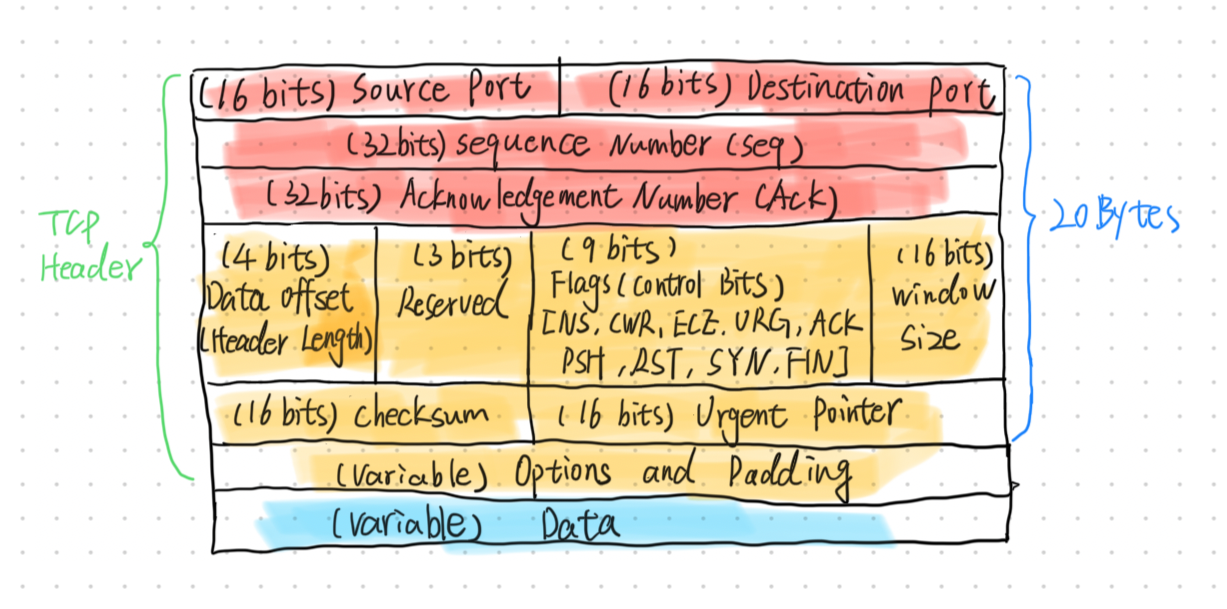
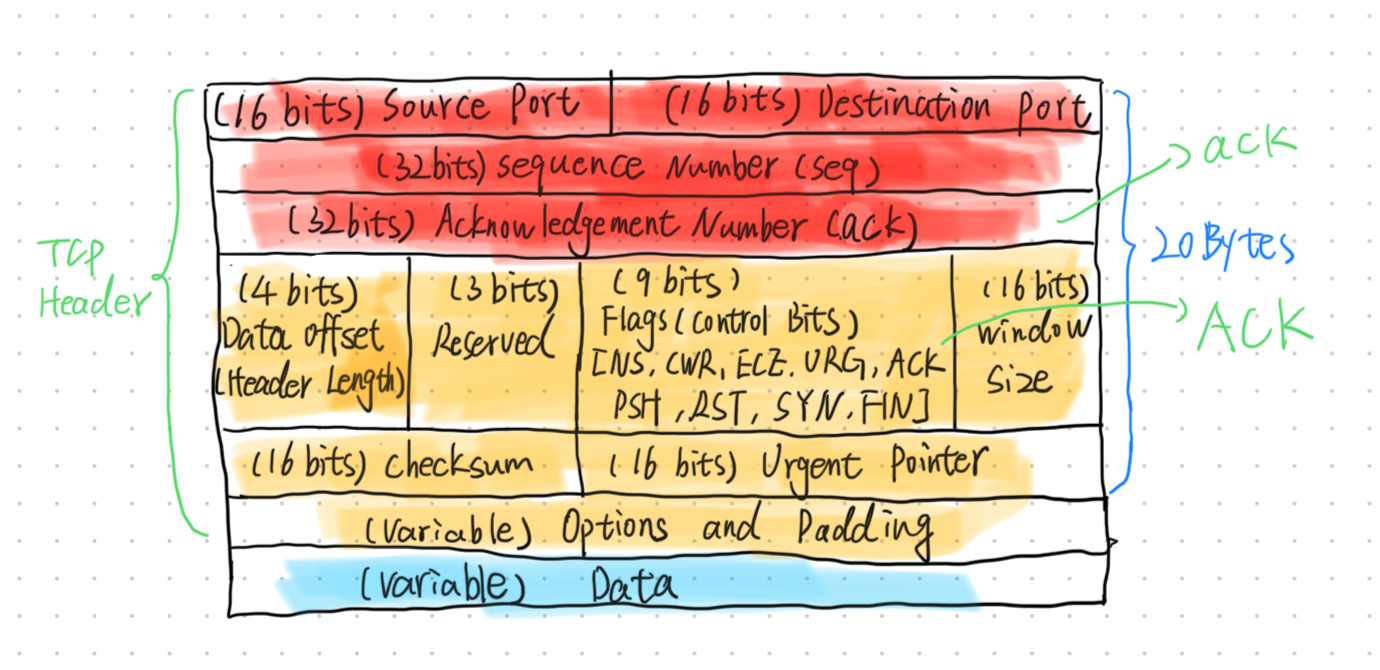
05-12-2025

diff --git a/_posts/Architecture/Computer Networking/2025-05-12-TCP-Three-Way-Handshake-And-TCB.md b/_posts/Architecture/Computer Networking/2025-05-12-TCP-Three-Way-Handshake-And-TCB.md
@@ -1,0 +1,239 @@
+---
+title: TCP Three-Way Handshake and TCB
+date: 2025-05-12
+categories: [Architecture, Computer Networking]
+tags: [Computer Networking, TCP, Networking, Transport Layer, Three-Way Handshake]
+author: kai
+---
+
+# 🔍 TCP Three-Way Handshake
+TCP (Transmission Control Protocol) is a **connection-oriented** protocol designed to ensure **reliable** and **ordered** data transmission. One of its most critical mechanisms is the **Three-Way Handshake**, used to establish a connection between two endpoints before data transfer begins.
+
+![TCP Structure](/assets/img/posts/Architecture/ComputerNetworking/TCPStructure.png)
+
+
+## ⚙ Three-Way Handshake
+The **TCP Three-Way Handshake** is a process involving three steps (SYN → SYN-ACK → ACK) that initializes a TCP connection.
+
+![TCP Three-Way Handshake](/assets/img/posts/Architecture/ComputerNetworking/TCPThreeWayHandshake.png)
+
+### First Handshake: Client Sends SYN
+- The client sends a **SYN (Synchronize)** packet to the server to initiate a connection.
+- This packet includes:
+  - `SYN = 1` 
+  - A **random Initial Sequence Number (ISN)**: `seq = x`
+- Client transitions to the **SYN_SENT** state.
+- `Client → Server : SYN = 1, seq = x`
+
+### Second Handshake: Server Replies with SYN-ACK
+- The server receives the SYN packet, allocates resources, and responds with a **SYN-ACK** packet.
+- This packet includes:
+    - SYN = 1, ACK = 1
+    - seq = y (server’s ISN - a radom initial sequence number)
+	- ack = x + 1 (to acknowledge client’s SYN)
+	- Server transitions to the **SYN_RECEIVED** state.
+- `Server → Client : SYN = 1, ACK = 1, seq = y, ack = x + 1`
+
+### Third Handshake: Client Sends ACK
+- The client receives the SYN-ACK, and replies with an **ACK** packet:
+	- ACK = 1
+	- seq = x + 1
+	- ack = y + 1
+	- Client transitions to **ESTABLISHED** state.
+	- Server also enters **ESTABLISHED** state upon receiving this ACK.
+- `Client → Server : ACK = 1, seq = x + 1, ack = y + 1`
+
+### State Transitions
+- **Client**: CLOSED -> SYN_SENT -> ESTABLISHED
+- **Server**: CLOSED -> LISTEN-> SYN_RECEIVED -> ESTABLISHED
+
+
+### Data Transfer Note
+- **First SYN packet cannot carry data** (for security reasons).
+- **Third ACK can optionally carry data**, though this depends on the implementation.
+
+### Key TCP Flags
+1. **ACK (Acknowledgment)**
+    - Value: `1` if the acknowledgment number is valid.
+    - Meaning: "I have received the previous segment(s), and here's the next expected byte."
+    - Often seen in every TCP packet **after the initial handshake**.
+2. **SYN (Synchronize)**
+    - Value: `1` if the packet is used to initiate a connection.
+    - Purpose: Used during **connection setup**, specifically in the **three-way handshake**.
+    - Carries the **Initial Sequence Number (ISN)**.
+3. **Sequence Number (seq)**
+    - Indicates the **first byte of data** in this segment.
+    - During the handshake, it holds the ISN.
+    - Used by the receiver to reassemble packets in the correct order.
+4. **Acknowledgment Number (ack)**
+    - Indicates the **next byte the sender expects to receive**.
+    - If `ACK=1`, then this field is valid.
+    - For example, if `ack=1001`, it means the receiver has successfully received bytes 1–1000.
+
+
+## 🧠 TCP Control Block (TCB): Connection State Management
+TCP (Transmission Control Protocol) is a **stateful protocol**, meaning it **maintains connection information** throughout its lifetime. Unlike UDP, which is connectionless, **each TCP connection maintains context and state** using a data structure known as the **Transmission Control Block (TCB)**.
+
+- Each connection is **uniquely identified** by a **4-tuple**:
+  - `Source IP address`
+  - `Source port`
+  - `Destination IP address`
+  - `Destination port`
+
+- For every incoming TCP packet, the system uses this 4-tuple to **lookup the corresponding TCB** from a container (e.g., a hash map or list) to determine the connection's context.
+- Each TCB typically consumes at least 280 bytes.
+
+
+### TCB Lifecycle Step-by-Step
+How a TCP server manages the **Transmission Control Block (TCB)** during the connection setup process?
+
+1. **Server is listening for new connections**  
+   → Connection state: `LISTEN`
+
+2. **Receives a SYN packet from the client**  
+   → A new **TCB** is created and initialized
+
+3. **Server responds with a SYN+ACK packet**  
+   → Connection state changes to `SYN_RECEIVED`
+
+4. **The new TCB is placed in the "half-open connection queue"**  
+   → This is also known as the **SYN backlog queue**
+
+5. **Client receives SYN+ACK and sends ACK back to complete the handshake**
+
+6. **Server receives the ACK from the client**  
+   → The connection is now fully established
+
+7. **The TCB is removed from the half-open queue**  
+   → And added to the **fully-established connection queue**
+
+8. **Connection state changes to `ESTABLISHED`**  
+   → Data transfer can now begin
+
+> This is the server-side state transition flow that handles a new incoming TCP connection using the TCB data structure.
+
+
+```text
+[LISTEN]
+   ↓ recv SYN
+[Create TCB]
+   ↓ send SYN+ACK
+[SYN_RECEIVED]
+   ↓ queue TCB (half-open)
+   ↓ recv ACK
+[ESTABLISHED]
+   ↓ move TCB to full-connection queue
+```
+
+
+## 🤔 Why TCP Requires Three-Way Handshake (Not Two or Four)
+
+### What Happens in a Two-Way Handshake?
+
+Let’s explore a simplified **two-way handshake scenario** where both sides exchange initial sequence numbers:
+
+1. **Step 1 – SYN from Client:**  
+   The client sends a SYN packet to the server, containing its initial sequence number, e.g., `seq = x`.
+
+2. **Step 2 – SYN+ACK from Server:**  
+   The server responds with a SYN+ACK packet. This acknowledges the client’s sequence number with `ack = x+1` and also includes its own starting sequence number, `seq = y`.
+
+
+### Case 1: Sequence Number Synchronization Incomplete
+
+- **Step 1:** The **client** sends a **SYN packet** to the server with a sequence number: `SYN, seq = x`
+- **Step 2:** The **server** receives this and responds with: `SYN-ACK, ack = x + 1, seq = y`
+- **Problem:**
+   - The server confirms the client's sequence number, but the **client never confirms the server's**.
+   - If the server's SYN-ACK packet gets **lost** during transmission, the client:
+      - Doesn’t know the server's initial sequence number.
+      - Can’t establish a reliable connection.
+      - May continue sending data incorrectly.
+
+- **Solution with Third Handshake**
+   - The **third message (ACK)** from client to server:
+      - Confirms receipt of the server’s sequence number `y`.
+      - Ensures **mutual agreement** on sequence tracking.
+
+
+### Case 2: Stale Connection Requests
+![Stale Connection Requests](/assets/img/posts/Architecture/ComputerNetworking/TwoWayHandshakeProblem2.png)
+
+Imagine the following:
+
+1. The **client** sends a **SYN** but due to **network congestion**, it gets **delayed**.
+2. The client **times out** and sends a second **SYN**.
+3. The second SYN succeeds; the connection is established and eventually closed.
+
+#### Problem
+The **first, delayed SYN** finally arrives at the server **after the connection is closed**.
+
+If using **two-way handshake**, the server would:
+- Accept the SYN.
+- Move to **ESTABLISHED** state.
+- Wait for client interaction that **will never come**.
+
+This causes:
+- **Resource leaks**.
+- **Zombie connections** on the server.
+- **Service degradation** under high concurrency.
+
+
+#### Solution with Third Handshake
+In a proper **three-step process**:
+
+1. Server responds with `SYN-ACK`.
+2. **Client must respond with an ACK**.
+
+If the client has already closed the session:
+- It won’t reply with ACK.
+- The server will **not complete the handshake**, preventing stale connections.
+
+In some TCP implementations, the client may even send an **RST** (reset) packet to explicitly refuse the connection.
+
+
+### Final Conclusion
+
+The **primary purpose** of the TCP three-way handshake is to ensure a **reliable, full-duplex communication channel** between client and server. It is **not arbitrary** — it's a carefully designed protocol mechanism based on the following goals:
+
+1. **Ensure Bidirectional Communication Availability**
+   - Verifies that **both client and server** are ready to **send and receive data**.
+   - Avoids half-open connections where only one side is responsive.
+
+2. **Prevent Reuse of Stale or Duplicate Connections**
+   - Protects against outdated or duplicated `SYN` packets initializing ghost connections.
+   - Saves **system resources** and avoids **zombie sockets**.
+
+3. **Synchronize Initial Sequence Numbers**
+   - Ensures both sides are aware of each other’s **starting sequence numbers** for reliable communication.
+
+
+#### Sequence and Acknowledgment Numbers
+
+- **`seq` (Sequence Number)**:
+  - Used to **identify the order of bytes** in the TCP stream.
+  - Helps in **reordering packets** in case they arrive out of order.
+
+- **`ack` (Acknowledgment Number)**:
+  - Confirms **successful receipt** of data.
+  - Helps in detecting **packet loss**, which triggers **retransmission**.
+
+
+### Reliability Mechanism
+
+TCP’s **reliability** does **not solely depend** on the three-way handshake — it is further reinforced by the **retransmission mechanism**:
+
+- Lost packets are **re-sent**.
+- Unacknowledged segments trigger **timeouts and retries**.
+- Ensures **end-to-end delivery integrity**.
+
+
+
+
+
+<br>
+
+
+---
+
+🚀 Stay tuned for more insights into networking fundamentals!
